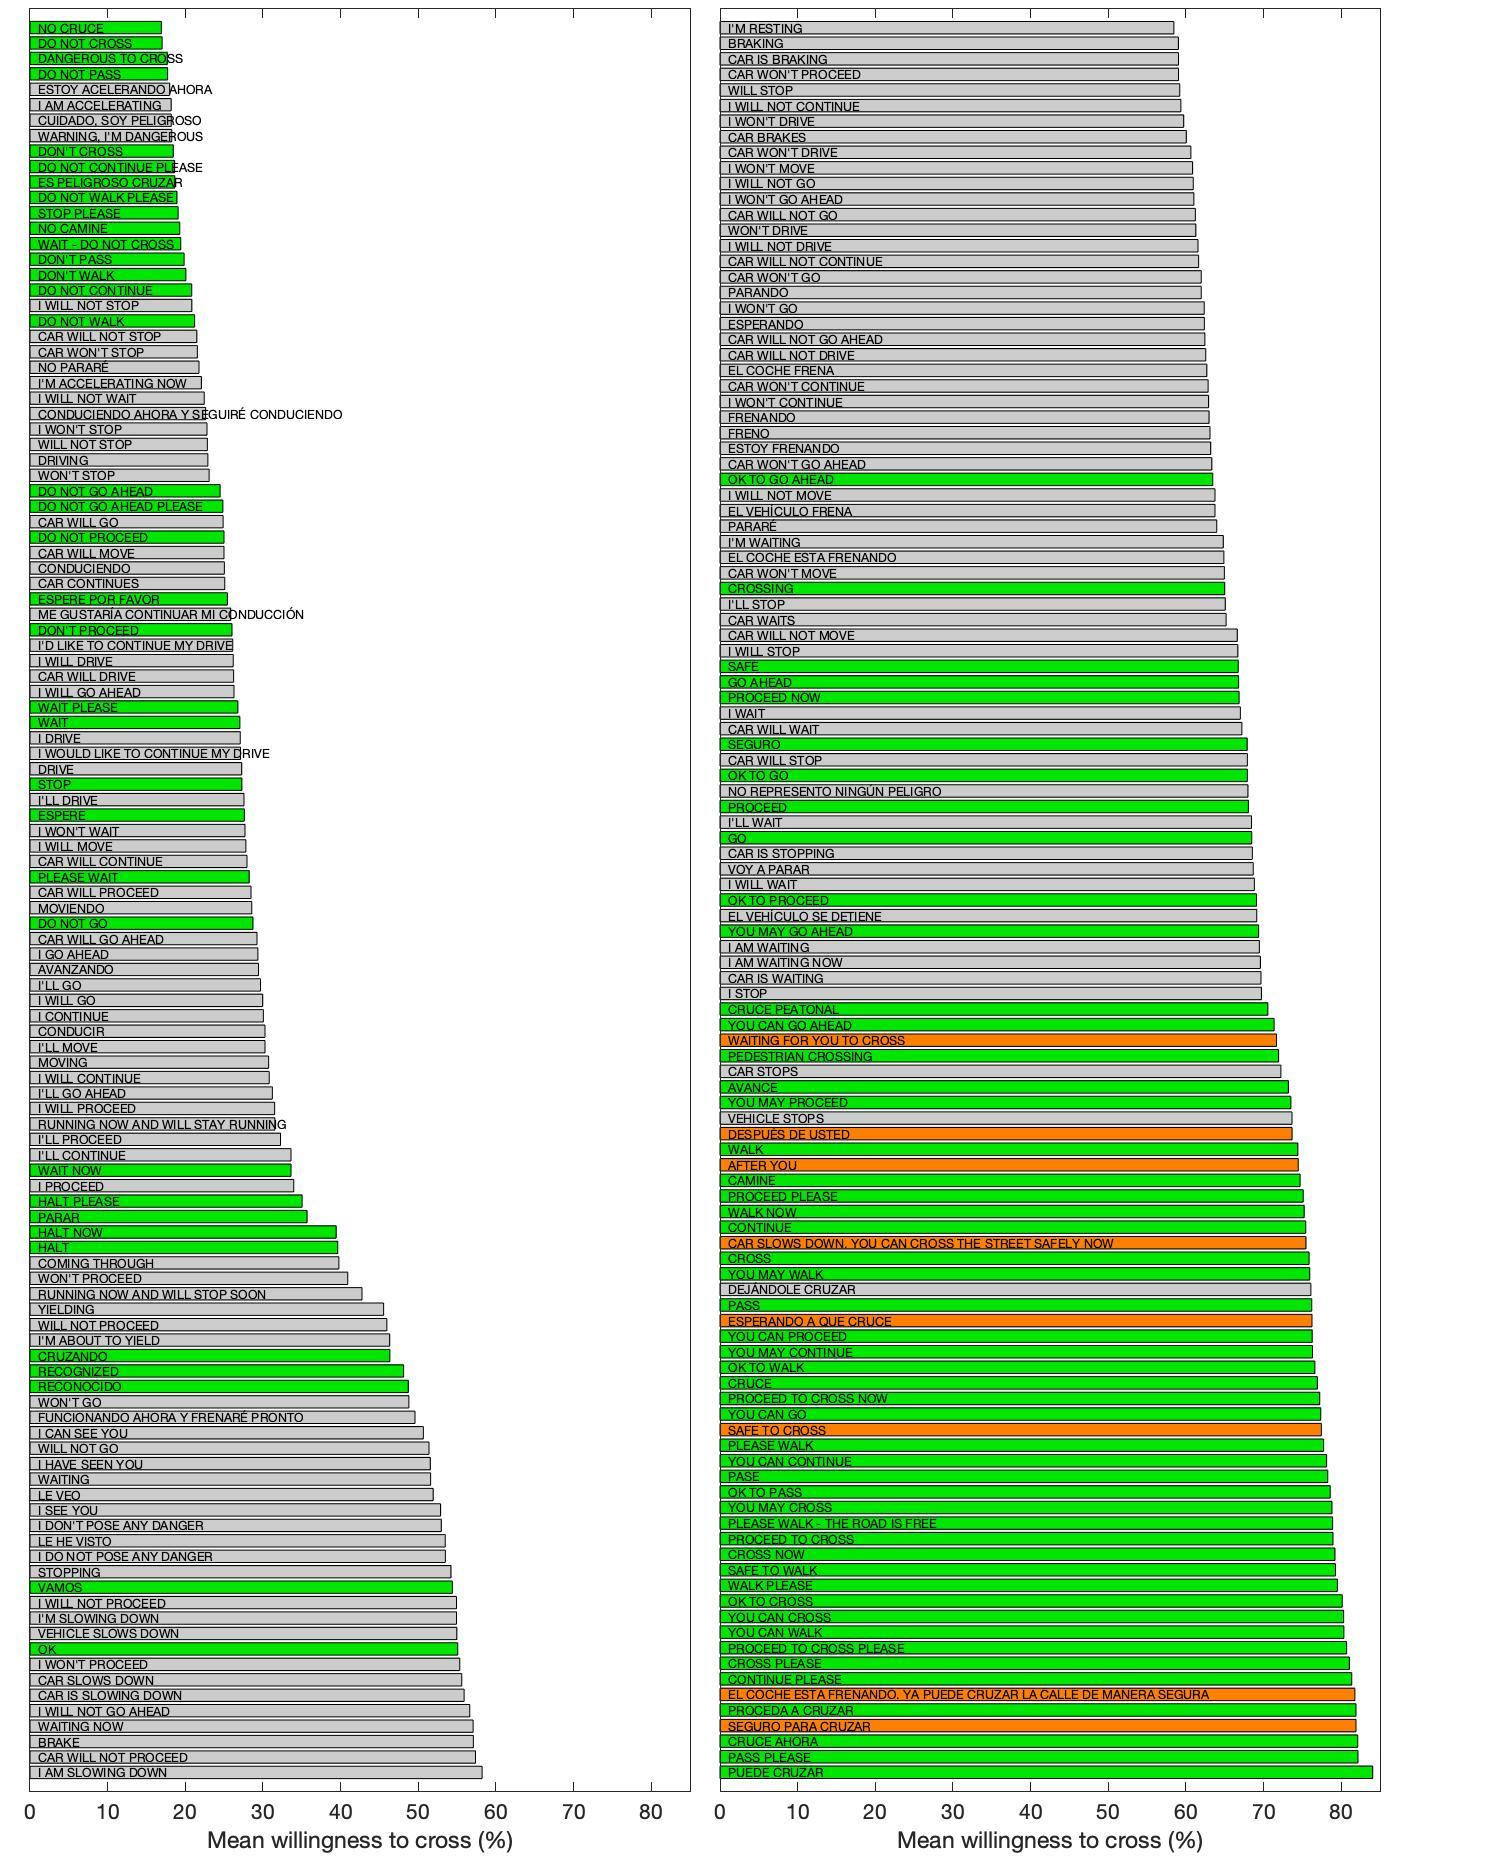
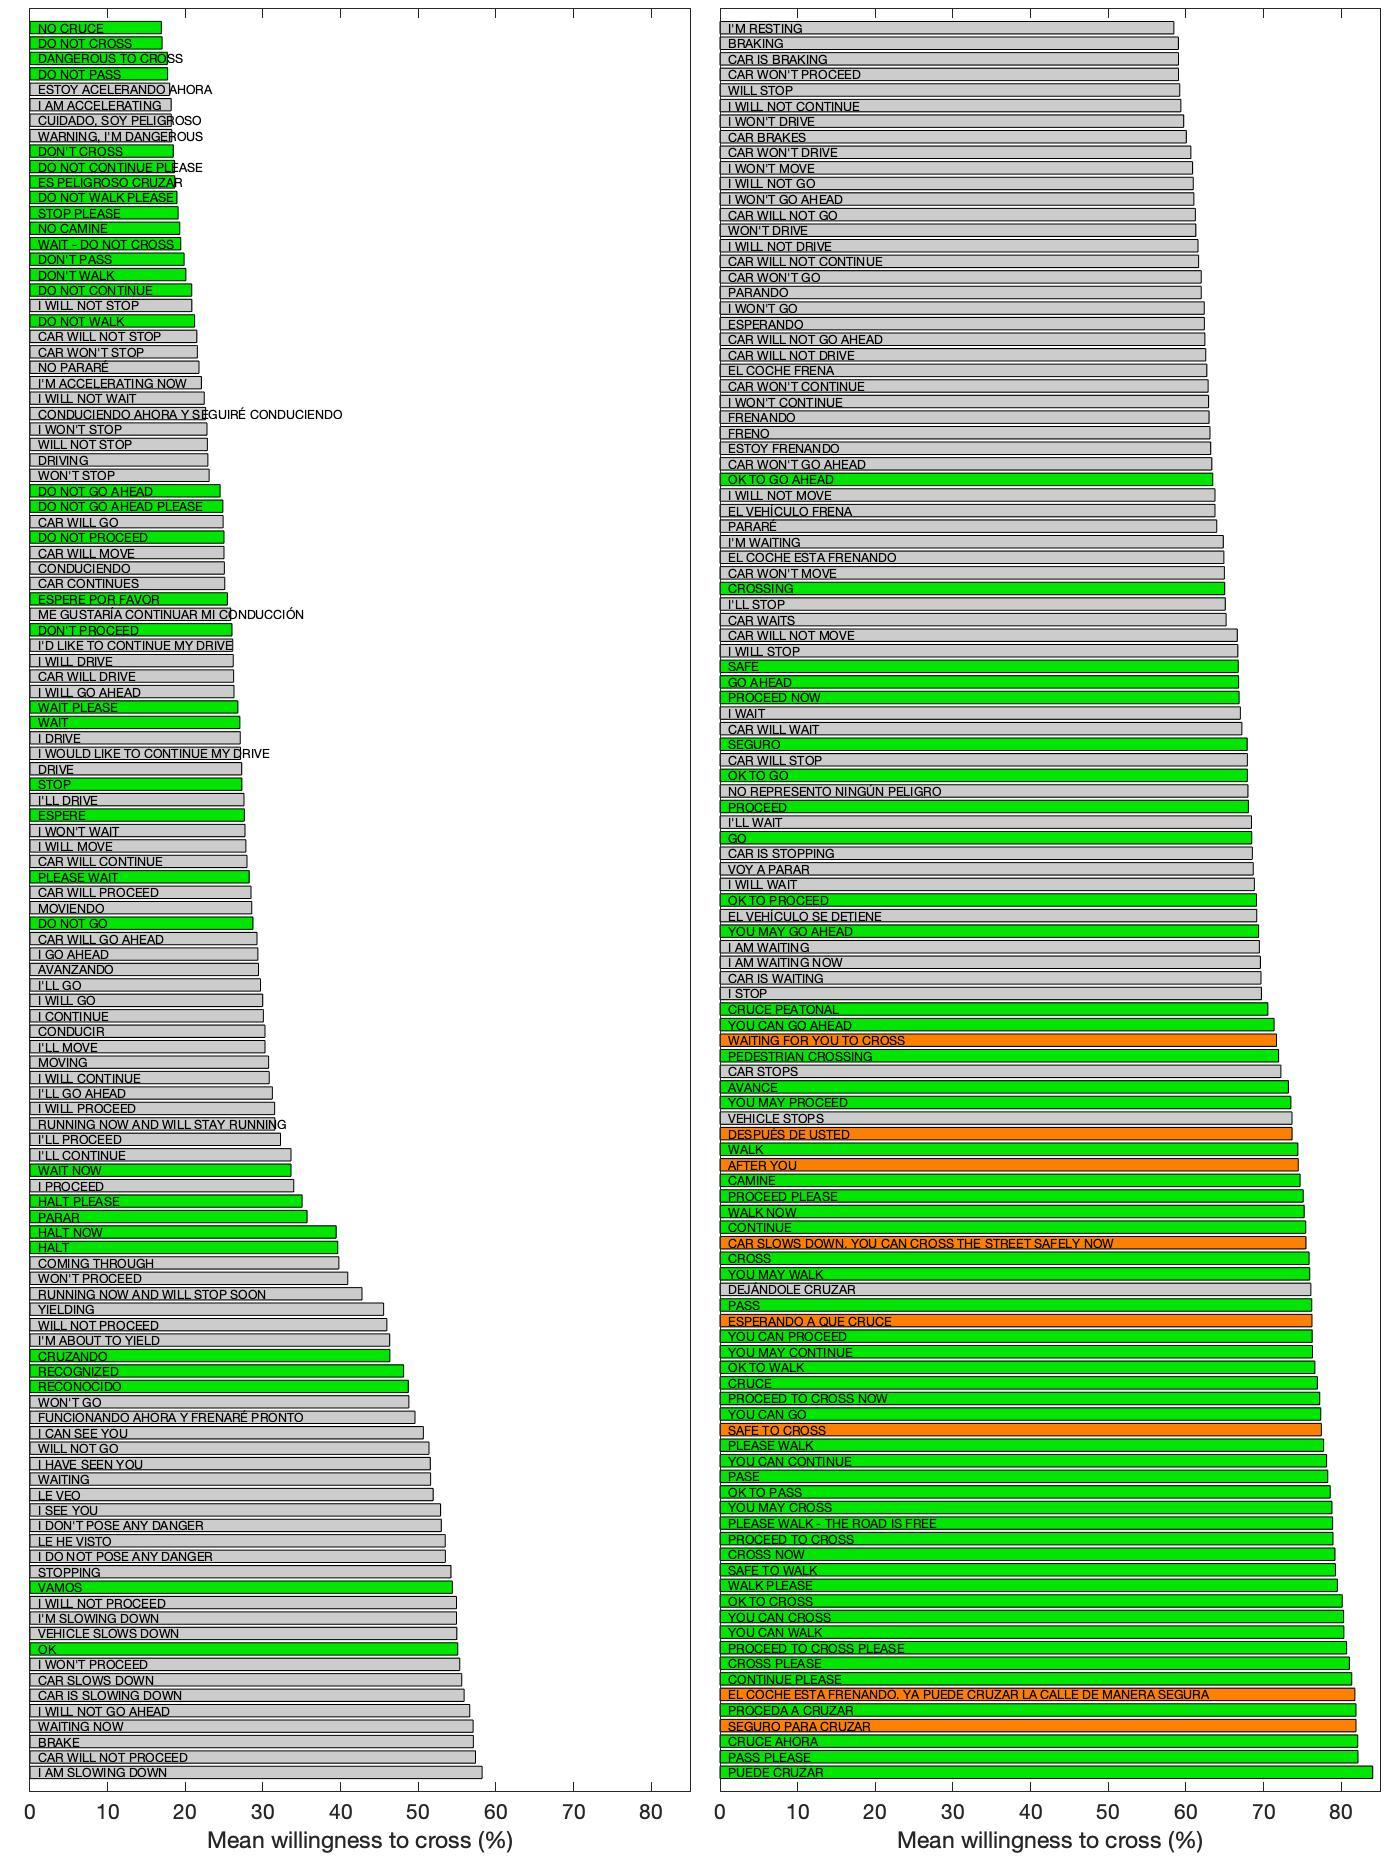
Improved cropping

diff --git a/textehmi/analysis/analysis.m b/textehmi/analysis/analysis.m
@@ -166,7 +166,7 @@ if config.save_figures
     img = imread([config.path_figures filesep ...
                   'mean-cross-multiple-columns.jpg']);
     [rows, columns, numberOfColorChannels] = size(img);
-    img2 = imcrop(img, [0 0 columns/2 rows]);
+    img2 = imcrop(img, [0 0 columns/2 - columns/30 rows]);
     imwrite(img2, ...
            [config.path_figures filesep 'mean-cross-multiple-columns.jpg'], ...
            'jpg');
